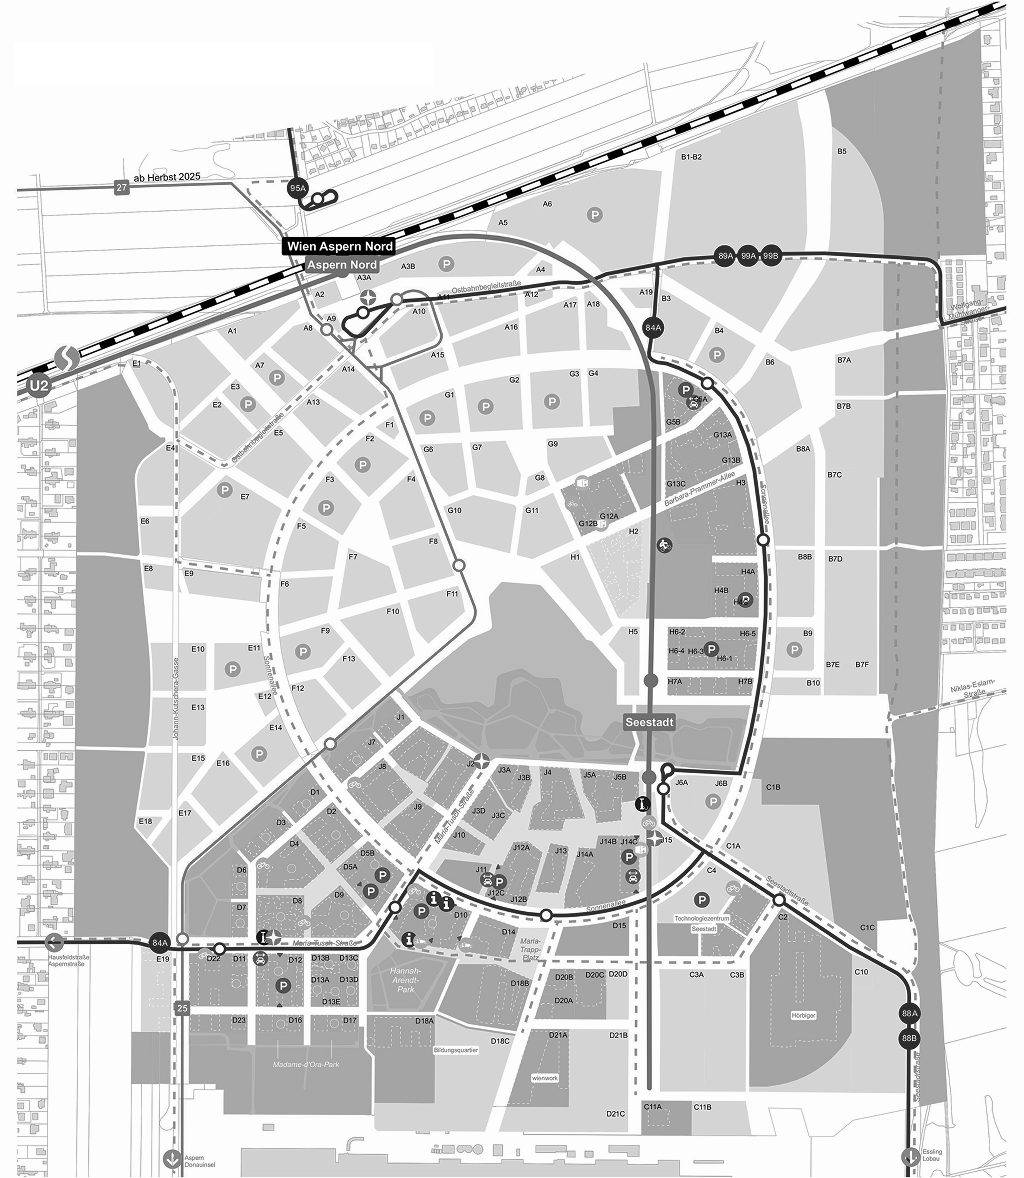
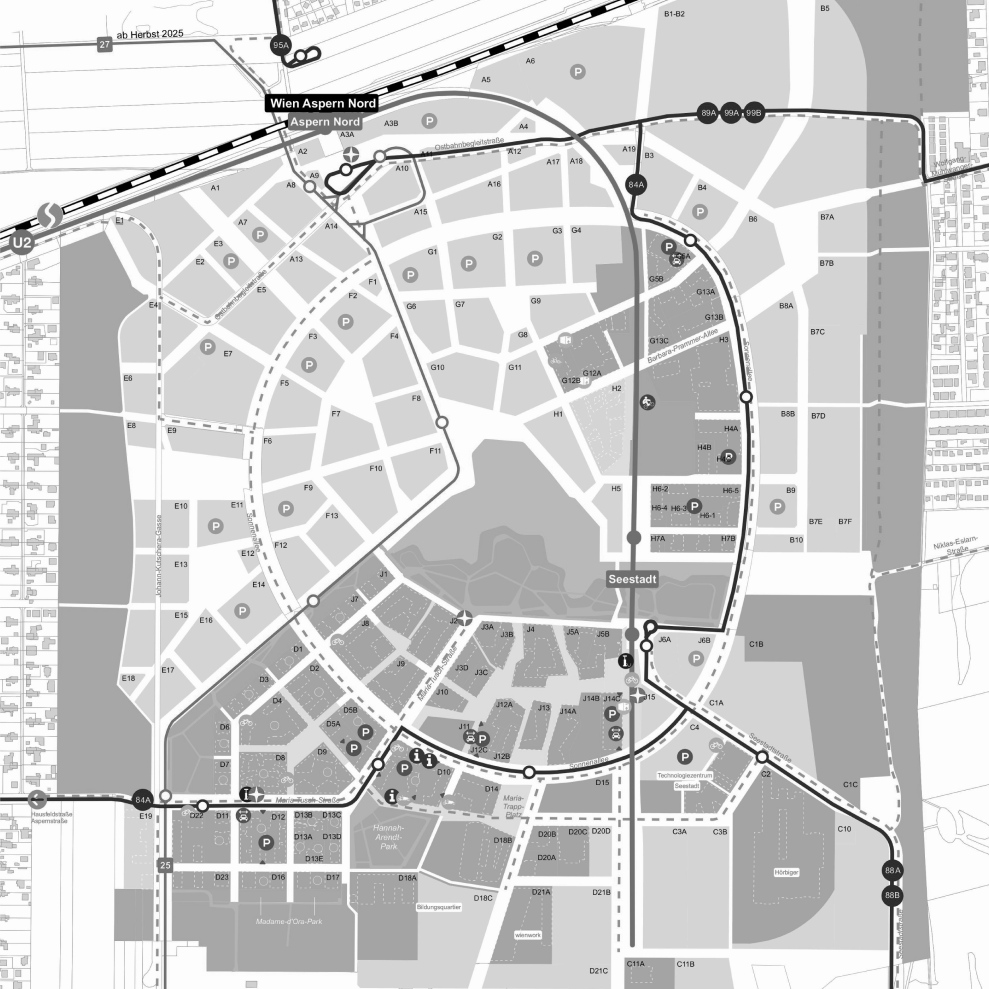
Add rasterization to map

diff --git a/lib/index.js b/lib/index.js
@@ -1,7 +1,47 @@
 import { onMapClick } from "./map-interaction.js"
+import { visualizeRaster } from "./vote-visualization.js"
+
+// SETTINGS
+const IMAGE_PIXEL_SIZE = 989; // width & height
+const RASTER_UNITS = 100;
+const CIRCLE_RADIUS_PERCENT = 5; // How much of the width of the map is the circle radius?
+const AREA_TARGET_PERCENT = 10; // How much of seestadt should be event zone ideally
 
 let negativeVotes = [];
-let votes = [];
+let votes = [
+    { x: 50, y: 50 },
+    { x: 60, y: 50 },
+];
+let raster = [];
+
+createRaster();
+visualizeRaster(raster.flat(),{x:RASTER_UNITS/100, y:RASTER_UNITS/100}, null);
+
+
+function createRaster() {
+    raster = Array.from({ length: RASTER_UNITS }, () => Array(RASTER_UNITS).fill(0));
+}
+
+function rasterizeVotes(votes, negativeVotes) {
+    for (let x = 0; x < RASTER_UNITS_X; x++) {
+        for (let y = 0; y < RASTER_UNITS_Y; y++) {
+            for (const circle of votes) {
+                let isInCircle = isInCircle({ x: x, y: y }, circle);
+                if (isInCircle)
+                    raster[x][y] += 1;
+            }
+
+        }
+    }
+}
+
+function isInCircle(rasterIndex, circleCenter) {
+
+}
+
+function linearizeArray(arr){
+
+}
 
 onMapClick(clickMap);
 function clickMap(mousePos) {

diff --git a/index.html b/index.html
@@ -14,14 +14,14 @@
         <h1 class="title is-2">Vote for tomorrow’s event location</h1>
     </div>
 
-    <div class="map-section">
+    <div class="map-section overlay-anchor">
         <div class="map-wrapper">
-            <div id="map">
-                <img class="background" src="./assets/plan.png" height="1178" width="1024" alt="">
-                <div id="overlay"></div>
+            <div id="map" class="overlay-anchor">
+                <img class="background" src="./assets/plan.png" height="989" width="989" alt="">
+                <div id="raster-overlay" class="overlay"></div>
             </div>
         </div>
-        <div class="fade">
+        <div class="fade overlay">
             <div></div>
             <div></div>
             <div></div>

diff --git a/style.css b/style.css
@@ -1,21 +1,23 @@
 @import "https://cdn.jsdelivr.net/npm/bulma@1.0.4/css/bulma.min.css";
-.map-wrapper {
-  height: 65vh;
-  overflow: scroll;
+.overlay-anchor {
   position: relative;
 }
 
-.map-section {
-  position: relative;
-}
-
-.map-section .fade {
-  pointer-events: none;
+.overlay {
   position: absolute;
   height: 100%;
   width: 100%;
   top: 0;
   left: 0;
+}
+
+.map-wrapper {
+  height: 65vh;
+  overflow: scroll;
+}
+
+.map-section .fade {
+  pointer-events: none;
 }
 .map-section .fade * {
   background-color: blue;
@@ -55,6 +57,14 @@
 }
 #map .background {
   max-width: unset;
+}
+
+#raster-overlay {
+  display: flex;
+  flex-wrap: wrap;
+}
+#raster-overlay .tile {
+  border: 1px solid rgba(0, 0, 0, 0.169);
 }
 
 /*# sourceMappingURL=style.css.map */

diff --git a/style.scss b/style.scss
@@ -1,22 +1,24 @@
 @import "https://cdn.jsdelivr.net/npm/bulma@1.0.4/css/bulma.min.css";
 
-.map-wrapper {
-    height: 65vh;
-    overflow: scroll;
+.overlay-anchor{
     position: relative;
 }
 
-.map-section {
-    position: relative;
-}
-
-.map-section .fade {
-    pointer-events: none;
+.overlay {
     position: absolute;
     height: 100%;
     width: 100%;
     top: 0;
     left: 0;
+}
+
+.map-wrapper {
+    height: 65vh;
+    overflow: scroll;
+}
+
+.map-section .fade {
+    pointer-events: none;
 
     * {
         background-color: blue;
@@ -63,5 +65,14 @@
 
     .background {
         max-width: unset;
+    }
+}
+
+#raster-overlay {
+    display: flex;
+    flex-wrap: wrap;
+
+    .tile {
+        border: 1px solid rgba(0, 0, 0, 0.169);
     }
 }

diff --git a/lib/vote-visualization.js b/lib/vote-visualization.js
@@ -1,0 +1,17 @@
+export { visualizeRaster };
+
+const HTML_PARENT_ID = "raster-overlay";
+
+// shows different colors depending on the amount of votes
+function visualizeRaster(rasteredVotes, tileDimensions, colorSteps) {
+    const tile_parent = document.getElementById(HTML_PARENT_ID);
+
+    for (const raster of rasteredVotes) {
+        let tile = document.createElement("div");
+        tile.classList.add("tile");
+        tile.style.width = tileDimensions.x + "%";
+        tile.style.height = tileDimensions.y + "%";
+        console.log(tile)
+        tile_parent.appendChild(tile);
+    }
+}
